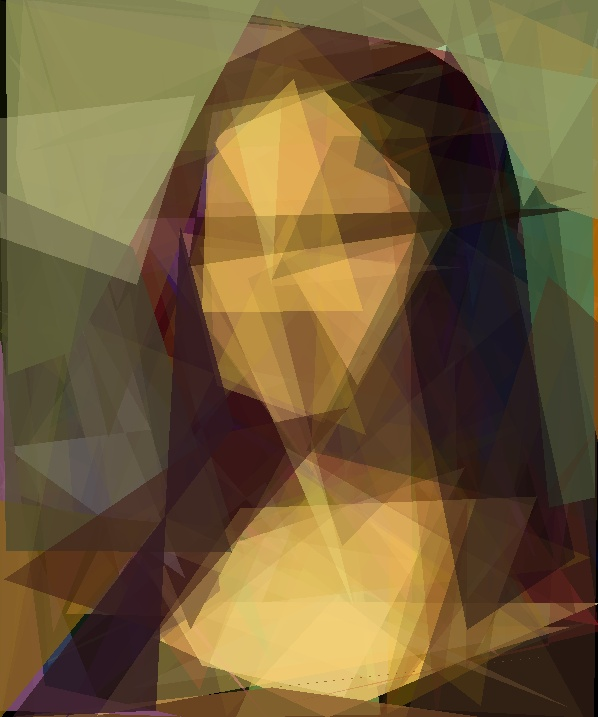
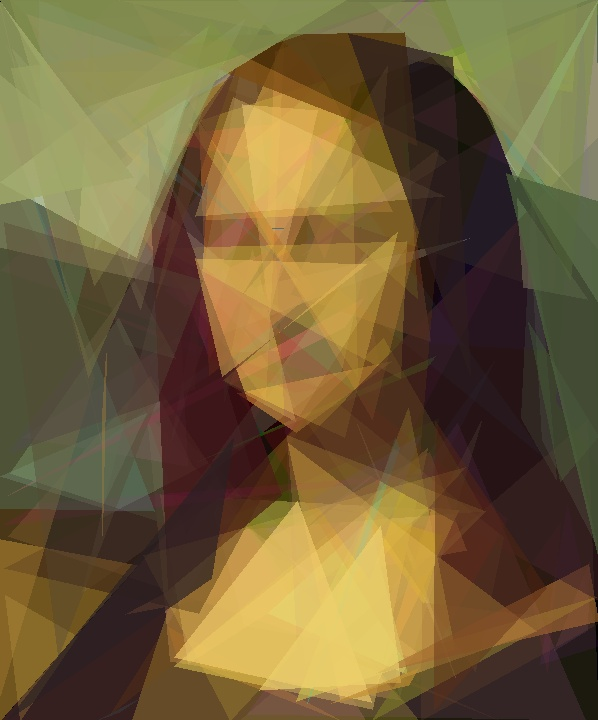
Updated sample results and README.md

diff --git a/main.py b/main.py
@@ -19,7 +19,7 @@ cv.namedWindow('Result')
 SAMPLE = 'mona_lisa.jpg'
 ALGORITHM = GA  # GA or PSO
 INTERPOLATION_SIZE = 5  # Number of interpolated frame to save for PSO results. Set to 1 to disable interpolation
-VIDEO_INIT_GEN, VIDEO_FRAME_GEN = 2000, 500  # Number of generations to run for the first and for the other frames, respectively
+VIDEO_INIT_GEN, VIDEO_FRAME_GEN = 3000, 500  # Number of generations to run for the first and for the other frames, respectively
 
 if len(sys.argv) > 1:
     SAMPLE = sys.argv[1]
@@ -62,18 +62,18 @@ ga = GA(
 # Particle swarm optimization
 pso = PSO(
     img,
-    swarm_size=1000,
-    line_length=15,
+    swarm_size=500,
+    line_length=20,
     velocity_update_rule=velocity_update.Standard(),  # velocity_update.Standard(), velocity_update.FullyInformed(), velocity_update.ComprehensiveLearning()
     neighborhood_topology=topology.StarTopology(),  # topology.DistanceTopology(), topology.RingTopology(), topology.StarTopology()
     neighborhood_size=3,
-    coeffs=(0.1, 1.5, 1.5),  # Inertia (0.7 - 0.8), cognitive coeff/social coeff (1.5 - 1.7)
+    coeffs=(0.2, 1.5, 1.5),  # Inertia (0.7 - 0.8), cognitive coeff/social coeff (1.5 - 1.7)
     min_distance=2,
     max_velocity=50
 )
 
 fbest, favg, fworst = [], [], []
-diversities, dist = [], None
+diversities, dist, prev_npswarm = [], None, None
 try:  # Press ctrl+c to exit loop
     print(f'\nRunning {ALGORITHM.__name__} algorithm over "{SAMPLE}".\nPress ctrl+c to terminate the execution.\n')
     while True:
@@ -116,13 +116,20 @@ try:  # Press ctrl+c to exit loop
 
         # Save result in video
         if (ALGORITHM is GA and (
-            (isvideo and gen % VIDEO_FRAME_GEN == 0) or
-            (not isvideo and gen % 10 == 0))) \
-                or (ALGORITHM is PSO):
+                (isvideo and gen % VIDEO_FRAME_GEN == 0) or
+                (not isvideo and gen % 10 == 0)) 
+            ) or (ALGORITHM is PSO and ( 
+                (isvideo and gen % VIDEO_FRAME_GEN == 0) or
+                (not isvideo))
+            ):
             if ALGORITHM is GA:
                 frames = [best_img.copy()]
             elif ALGORITHM is PSO:
-                frames = pso.draw_interpolated(INTERPOLATION_SIZE)  # Interpolate frames for better visualization
+                if prev_npswarm is not None and not isvideo:
+                    frames = pso.draw_interpolated(prev_npswarm, INTERPOLATION_SIZE)  # Interpolate frames for better visualization
+                else:
+                    frames = [best_img.copy()]
+                prev_npswarm = pso.npswarm
             for frame in frames:
                 # frame = cv.putText(frame, f'{gen}', (2, 16), cv.FONT_HERSHEY_PLAIN, 1.4, (0, 0, 255), 2) # Print generation number
                 out.write(frame)

diff --git a/classes/pso/pso.py b/classes/pso/pso.py
@@ -1,6 +1,7 @@
 import numpy as np
 import cv2 as cv
 from PIL import Image, ImageDraw
+import random
 
 from ..problem import Problem
 from .particle import Particle
@@ -11,6 +12,8 @@ class PSO:
     def __init__(self, target, swarm_size, line_length, velocity_update_rule, neighborhood_topology, neighborhood_size, coeffs, min_distance, max_velocity, internal_resolution=-1):
         self.iteration = 0
         self.problem = Problem(Problem.GRAYSCALE, target, internal_resolution)
+        self.swarm_size = swarm_size
+        self.line_length = line_length
         self.velocity_update_rule = velocity_update_rule
         self.neighborhood_topology = neighborhood_topology
         self.neighborhood_size = neighborhood_size
@@ -22,7 +25,6 @@ class PSO:
             self.swarm.append(Particle.random(self.problem, idx, line_length, self.max_velocity))
 
     def next(self):
-        self.prev_npswarm = self.npswarm
         self.iteration += 1
         fitness = 0
         for i, particle in enumerate(self.swarm):
@@ -34,9 +36,9 @@ class PSO:
     def draw(self):
         return PSO._draw_npswarm(self.npswarm, self.problem.scale_factor, self.problem.target.shape)
 
-    def draw_interpolated(self, n_points):
+    def draw_interpolated(self, prev_npswarm, n_points):
         imgs = []
-        for npswarm in interpolate(self.prev_npswarm, self.npswarm, n_points):
+        for npswarm in interpolate(prev_npswarm, self.npswarm, n_points):
             imgs.append(PSO._draw_npswarm(npswarm, self.problem.scale_factor, self.problem.target.shape))
         return imgs
 
@@ -45,13 +47,16 @@ class PSO:
         img = Image.new('RGB', (int(img_size[1]*scale), int(img_size[0]*scale)), color='white')
         draw = ImageDraw.Draw(img, 'RGB')
         for coords in npswarm:
-            draw.line(tuple(coords*scale), fill=(0,0,0), width=int(2*scale))
+            draw.line(tuple(coords*scale), fill=(0,0,0), width=int(1*scale))
         img = np.array(img)
         img = cv.cvtColor(img, cv.COLOR_RGB2BGR)
         return img
 
     def update_target(self, target):
         self.problem.set_target(target)
+        self.swarm = []
+        for idx in range(self.swarm_size):
+            self.swarm.append(Particle.random(self.problem, idx, self.line_length, self.max_velocity))
 
     @property
     def npswarm(self): # Return curent swarm as numpy array

diff --git a/classes/ga/ga.py b/classes/ga/ga.py
@@ -6,7 +6,7 @@ from ..operators import selection, replacement
 
 class GA:
     
-    def __init__(self, target, pop_size, n_poly, n_vertex, selection_strategy, replacement_strategy, crossover_type, self_adaptive, mutation_rates, mutation_step_sizes, internal_resolution=75):
+    def __init__(self, target, pop_size, n_poly, n_vertex, selection_strategy, replacement_strategy, crossover_type, self_adaptive, mutation_rates, mutation_step_sizes, internal_resolution=120):
         self.generation = 0
         self.problem = Problem(Problem.RGB, target, internal_resolution)
         self.pop_size = pop_size

diff --git a/README.md b/README.md
@@ -2,6 +2,13 @@
 
 An evolutionary approach to image vectorization, based on Genetic Algorithms and Particle Swarm Optimization.
 
+<div align="center">
+    <img src="samples/mona_lisa.jpg" height="170"/>
+    <img src="results/images/GA_mona_lisa.gif" height="170"/>
+    <img src="results/images/PSO_mona_lisa.gif" height="170"/>
+</div>
+
+
 ### Genetic Algorithm
 A set of colored and transparent polygons are evolved using a genetic algorithm to reproduce the target image as close as possible. Different improvements are implemented to increase converge speed and final quality of the results.
 
@@ -23,13 +30,23 @@ A set of segments are evolved to reproduce the most relevant contours of the tar
 
  
 <div align="center">
-    <img src="results/images/PSO_mona_lisa.jpg" height="230"/>
-    <img src="results/images/PSO_dog.jpg" height="230"/>
-    <img src="results/images/PSO_liberty_statue.jpg" height="230"/>
+    <img src="results/images/PSO_mona_lisa.jpg" height="170"/>
+    <img src="results/images/PSO_dog.jpg" height="170"/>
+    <img src="results/images/PSO_liberty_statue.jpg" height="170"/>
+    <img src="results/images/PSO_starry_night.jpg" height="170"/>
+</div>
+
+### Video Vectorization
+Both algorithms can be also applied to videos:
+
+
+<div align="center">
+    <img src="samples/dancer.gif" height="150"/>
+    <img src="results/images/GA_dancer.gif" height="150"/>
+    <img src="results/images/PSO_dancer.gif" height="150"/>
 </div>
 
 
-Both algorithms can be also applied to videos:
 <div align="center">
     <img src="samples/parachute.gif" height="150"/>
     <img src="samples/run.gif" height="150"/>
